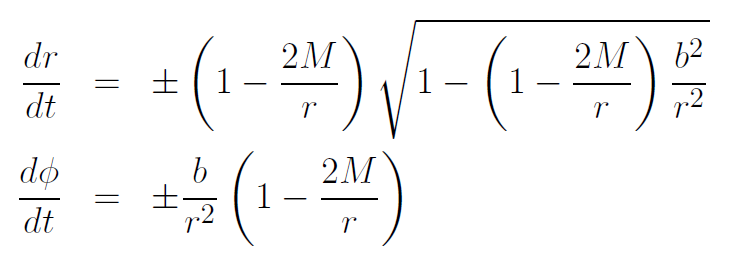
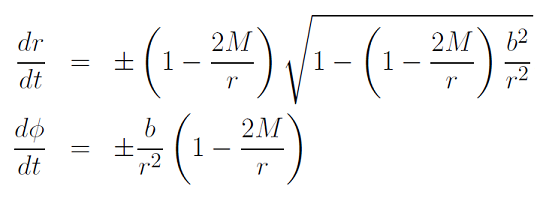
Ditto

diff --git a/README.md b/README.md
@@ -8,7 +8,7 @@ It does so by means of the ray tracing technique but with the rays bending accor
 
 As such, tracing a ray requires solving the two following differential equations:
 
-![Ray equations](diffeq.png =100x)
+![Ray equations](diffeq.png)
 
 in the polar coordinates *phi* and *r*, which is done using the (simple) Euler method.
 
